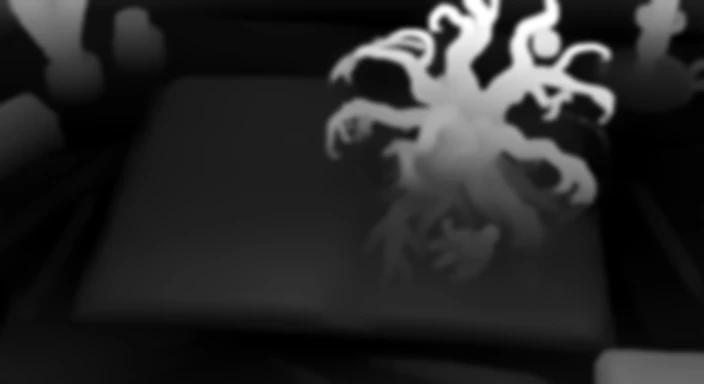
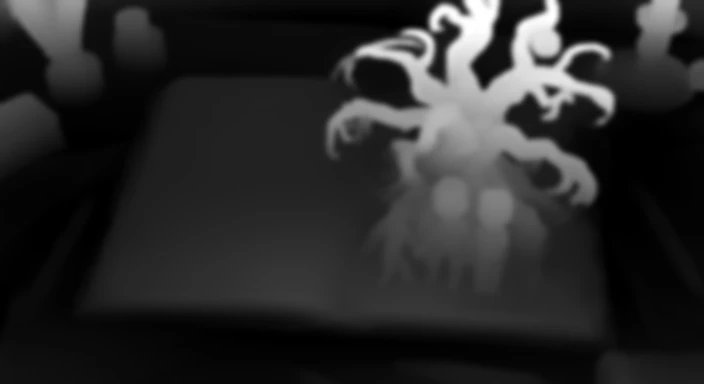
Upside-Down World p12: new back-at-the-oak picture; kids look ahead, turn to each other, high-five (shirt colour fixed), gentle branch sway, warm sun glow, dust, 2x upscale
Claude-Session: https://claude.ai/code/session_01BFtifSTdmWYaAK88ECs5PE

diff --git a/books/upside-down-world/sprite.js b/books/upside-down-world/sprite.js
@@ -1,2 +1,2 @@
 /* flying objects drawn over a still page: img = transparent sprite, rs = ball radius in the sprite, path = [x,y,radius] per frame at 24 fps in 1408x768 picture pixels */
-window.SPRITES={p01:{img:"img/p01-ball.webp",size:260,rs:104.5,path:[[951.0,390.0,18.5],[946.4,377.6,21.9],[944.8,373.2,22.6],[941.8,364.8,24.4],[938.6,356.8,26.0],[935.2,349.1,27.6],[931.6,342.1,29.2],[927.9,335.5,30.7],[923.8,329.1,32.0],[919.7,322.8,33.5],[915.7,316.9,34.9],[911.8,311.1,36.2],[907.8,305.5,37.6],[903.9,300.1,38.9],[899.8,295.1,40.2],[895.8,290.0,41.2],[891.4,285.1,42.2],[887.2,280.3,43.2],[882.9,275.7,44.3],[878.9,271.0,45.3],[874.9,266.6,46.5],[871.2,262.1,47.8],[867.5,257.7,49.1],[863.9,253.4,50.5],[860.2,249.1,51.8],[856.2,244.7,53.0],[852.4,240.6,54.2],[848.3,236.6,55.3],[843.9,232.6,56.5],[839.6,228.6,57.6],[835.4,224.8,58.6],[830.9,221.0,59.7],[826.3,217.3,60.7],[821.9,213.7,61.5],[817.4,210.1,62.4],[812.8,206.8,63.6],[808.1,203.5,64.5],[803.4,200.3,65.6],[798.8,196.9,66.6],[794.1,193.7,67.7],[789.4,190.4,68.8],[784.8,187.1,70.0],[780.1,183.8,71.3],[775.3,180.6,72.7],[770.3,177.4,74.1],[765.1,174.3,75.5],[759.8,171.1,77.0],[754.7,167.8,78.5],[749.2,164.6,80.0],[743.7,161.4,81.3],[738.1,157.9,82.7],[732.6,154.6,84.0]]},p02:{img:"img/p01-ball.webp",size:260,rs:104.5,kind:"lob",from:[1008,538,9],to:[1040,212,4.2],apex:170,rig:[{img:"img/p02-leg.webp",box:[960,515,60,60],pivot:[987,531],depth:[988,545],motion:"leg"}]},p03:{rig:[{img:"img/p03-leo.webp",box:[906,462,52,56],pivot:[932,504],depth:[932,495],motion:"headL"},{img:"img/p03-sam.webp",box:[946,475,52,56],pivot:[972,515],depth:[972,505],motion:"headS"}]},p03s:{img:"img/p01-ball.webp",size:260,rs:104.5,kind:"hops",ground:true,rest:1.6,start:[920.3,488.6,14.5],du:[1.25,.42,.3],grow:.5,bend:-62,hops:[[896,197,9.5,175],[892,187,8.5,15],[879,181,7.5,6]],to:[879,181,7.5]},p03t:{rig:[{img:"img/p03-turn.webp",box:[888,468,114,140],pivot:[945,538],depth:[945,540],motion:"turn"}]},p05p:{rig:[{img:"img/p05-point.webp",box:[884,452,118,156],pivot:[943,530],depth:[943,540],motion:"point2"}]},p06k:{rig:[{img:"img/p06-k0.webp",box:[878,423,80,114],pivot:[918.4,478.3],depth:[918.4,508.3],motion:"kf0"},{img:"img/p06-k1.webp",box:[866,417,97,111],pivot:[915.3,473.5],depth:[915.3,503.5],motion:"kf1"},{img:"img/p06-k2.webp",box:[874,472,99,116],pivot:[921.4,531.8],depth:[921.4,561.8],motion:"kf2"}]},p07k:{rig:[{img:"img/p07-kids.webp",box:[859.6,324.2,83.1,120.1],pivot:[910,404],depth:[910,395],motion:"walk7"}]},p08k:{rig:[{img:"img/p08-k1.webp",box:[750,272,339.5,323],pivot:[920,590],depth:[920,560],motion:"p8a"},{img:"img/p08-k2.webp",box:[781,272,283.5,323],pivot:[920,590],depth:[920,560],motion:"p8b"}]},p09k:{rig:[{img:"img/p09-wave.webp",box:[868,430,152,180],pivot:[944,520],depth:[944,540],motion:"p9"}]},p10k:{rig:[{img:"img/p10-kids.webp",box:[800,350,240,210],pivot:[920,455],depth:[920,470],motion:"stride"},{img:"img/p10-whale.webp",box:[640,30,550,380],pivot:[905,220],depth:[905,220],motion:"flip10"}]},p11k:{rig:[{img:"img/p10-kids.webp",box:[800,350,240,210],pivot:[920,455],depth:[920,470],motion:"stride"},{img:"img/p11-song.webp",box:[23,59,1272,491],pivot:[660,300],depth:[880,180],motion:"song11"}]}};
+window.SPRITES={p01:{img:"img/p01-ball.webp",size:260,rs:104.5,path:[[951.0,390.0,18.5],[946.4,377.6,21.9],[944.8,373.2,22.6],[941.8,364.8,24.4],[938.6,356.8,26.0],[935.2,349.1,27.6],[931.6,342.1,29.2],[927.9,335.5,30.7],[923.8,329.1,32.0],[919.7,322.8,33.5],[915.7,316.9,34.9],[911.8,311.1,36.2],[907.8,305.5,37.6],[903.9,300.1,38.9],[899.8,295.1,40.2],[895.8,290.0,41.2],[891.4,285.1,42.2],[887.2,280.3,43.2],[882.9,275.7,44.3],[878.9,271.0,45.3],[874.9,266.6,46.5],[871.2,262.1,47.8],[867.5,257.7,49.1],[863.9,253.4,50.5],[860.2,249.1,51.8],[856.2,244.7,53.0],[852.4,240.6,54.2],[848.3,236.6,55.3],[843.9,232.6,56.5],[839.6,228.6,57.6],[835.4,224.8,58.6],[830.9,221.0,59.7],[826.3,217.3,60.7],[821.9,213.7,61.5],[817.4,210.1,62.4],[812.8,206.8,63.6],[808.1,203.5,64.5],[803.4,200.3,65.6],[798.8,196.9,66.6],[794.1,193.7,67.7],[789.4,190.4,68.8],[784.8,187.1,70.0],[780.1,183.8,71.3],[775.3,180.6,72.7],[770.3,177.4,74.1],[765.1,174.3,75.5],[759.8,171.1,77.0],[754.7,167.8,78.5],[749.2,164.6,80.0],[743.7,161.4,81.3],[738.1,157.9,82.7],[732.6,154.6,84.0]]},p02:{img:"img/p01-ball.webp",size:260,rs:104.5,kind:"lob",from:[1008,538,9],to:[1040,212,4.2],apex:170,rig:[{img:"img/p02-leg.webp",box:[960,515,60,60],pivot:[987,531],depth:[988,545],motion:"leg"}]},p03:{rig:[{img:"img/p03-leo.webp",box:[906,462,52,56],pivot:[932,504],depth:[932,495],motion:"headL"},{img:"img/p03-sam.webp",box:[946,475,52,56],pivot:[972,515],depth:[972,505],motion:"headS"}]},p03s:{img:"img/p01-ball.webp",size:260,rs:104.5,kind:"hops",ground:true,rest:1.6,start:[920.3,488.6,14.5],du:[1.25,.42,.3],grow:.5,bend:-62,hops:[[896,197,9.5,175],[892,187,8.5,15],[879,181,7.5,6]],to:[879,181,7.5]},p03t:{rig:[{img:"img/p03-turn.webp",box:[888,468,114,140],pivot:[945,538],depth:[945,540],motion:"turn"}]},p05p:{rig:[{img:"img/p05-point.webp",box:[884,452,118,156],pivot:[943,530],depth:[943,540],motion:"point2"}]},p06k:{rig:[{img:"img/p06-k0.webp",box:[878,423,80,114],pivot:[918.4,478.3],depth:[918.4,508.3],motion:"kf0"},{img:"img/p06-k1.webp",box:[866,417,97,111],pivot:[915.3,473.5],depth:[915.3,503.5],motion:"kf1"},{img:"img/p06-k2.webp",box:[874,472,99,116],pivot:[921.4,531.8],depth:[921.4,561.8],motion:"kf2"}]},p07k:{rig:[{img:"img/p07-kids.webp",box:[859.6,324.2,83.1,120.1],pivot:[910,404],depth:[910,395],motion:"walk7"}]},p08k:{rig:[{img:"img/p08-k1.webp",box:[750,272,339.5,323],pivot:[920,590],depth:[920,560],motion:"p8a"},{img:"img/p08-k2.webp",box:[781,272,283.5,323],pivot:[920,590],depth:[920,560],motion:"p8b"}]},p09k:{rig:[{img:"img/p09-wave.webp",box:[868,430,152,180],pivot:[944,520],depth:[944,540],motion:"p9"}]},p10k:{rig:[{img:"img/p10-kids.webp",box:[800,350,240,210],pivot:[920,455],depth:[920,470],motion:"stride"},{img:"img/p10-whale.webp",box:[640,30,550,380],pivot:[905,220],depth:[905,220],motion:"flip10"}]},p11k:{rig:[{img:"img/p10-kids.webp",box:[800,350,240,210],pivot:[920,455],depth:[920,470],motion:"stride"},{img:"img/p11-song.webp",box:[23,59,1272,491],pivot:[660,300],depth:[880,180],motion:"song11"}]},p12k:{rig:[{img:"img/p12-k1.webp",box:[810,340,250,260],pivot:[935,470],depth:[935,480],motion:"p12a"},{img:"img/p12-k2.webp",box:[810,340,250,260],pivot:[935,470],depth:[935,480],motion:"p12b"}]}};

diff --git a/books/upside-down-world/index.html b/books/upside-down-world/index.html
@@ -398,6 +398,9 @@ const MOT={
   song11(tt){const T=12;tt=((tt%T)+T)%T;let a=0;
     if(tt>=1&&tt<2.4)a=ease((tt-1)/1.4);else if(tt>=2.4&&tt<8.5)a=1;else if(tt>=8.5&&tt<10)a=1-ease((tt-8.5)/1.5);
     return {dx:Math.sin(tt*.7)*2.5*a,dy:Math.sin(tt*1.1)*2*a,rot:0,sx:1,sy:1,a};},
+  /* page 12: the kids look ahead, turn to each other, high-five, then settle back (16 s) */
+  p12(tt,j){const T=16;tt=((tt%T)+T)%T;const on=(s,e,f)=>tt<s||tt>e+f?0:tt<s+f?ease((tt-s)/f):tt<e?1:1-ease((tt-e)/f);
+    return {dx:0,dy:0,rot:0,sx:1,sy:1,a:j===1?on(3,12.5,.55):on(6.6,10,.45)};},
   hide(tt){const T=16;tt=((tt%T)+T)%T;const S=7.0,E=11.6+.85;return {dx:0,dy:0,rot:0,sx:1,sy:1,a:Math.max(0,Math.min(1,(tt-S)/.12,(E-tt)/.12))};},
   head(tt,dir,lag){const T=16;tt=((tt-lag)%T+T)%T;let k=0;
     if(tt>=.8&&tt<1.9)k=ease((tt-.8)/1.1);else if(tt>=1.9&&tt<4.8)k=1;else if(tt>=4.8&&tt<5.9)k=1-ease((tt-4.8)/1.1);
@@ -408,7 +411,7 @@ function drawRig(c,d,L,now,dt,w,h,t,ps,o){
   const p=L._p,dim=p.fx==='shade'?dimS:0;
   (d.rig||[]).forEach(r=>{if(!r.im||!r.im.complete||!r.im.naturalWidth)return;
     const tt=reduce?0:(now-pageT0)/1000;
-    const M=r.motion==='flip10'?MOT.flip10(tt):r.motion==='stride'?MOT.stride(tt):r.motion==='song11'?MOT.song11(tt):r.motion==='p9'?MOT.p9(tt):r.motion==='p8a'?MOT.p8(tt,1):r.motion==='p8b'?MOT.p8(tt,2):r.motion==='walk7'?MOT.walk7(tt):r.motion&&r.motion.startsWith('kf')?MOT.kf(tt,+r.motion[2]):r.motion==='point2'?MOT.point2(tt):r.motion==='point'?MOT.point(tt):r.motion==='hide'?MOT.hide(tt):r.motion==='turn'?MOT.turn(tt):r.motion==='leg'?MOT.leg(tt):r.motion==='headL'?MOT.head(tt,1,0):MOT.head(tt,-1,.18);
+    const M=r.motion==='p12a'?MOT.p12(tt,1):r.motion==='p12b'?MOT.p12(tt,2):r.motion==='flip10'?MOT.flip10(tt):r.motion==='stride'?MOT.stride(tt):r.motion==='song11'?MOT.song11(tt):r.motion==='p9'?MOT.p9(tt):r.motion==='p8a'?MOT.p8(tt,1):r.motion==='p8b'?MOT.p8(tt,2):r.motion==='walk7'?MOT.walk7(tt):r.motion&&r.motion.startsWith('kf')?MOT.kf(tt,+r.motion[2]):r.motion==='point2'?MOT.point2(tt):r.motion==='point'?MOT.point(tt):r.motion==='hide'?MOT.hide(tt):r.motion==='turn'?MOT.turn(tt):r.motion==='leg'?MOT.leg(tt):r.motion==='headL'?MOT.head(tt,1,0):MOT.head(tt,-1,.18);
     const rl=depthAt(p.img,r.depth[0],r.depth[1]),qx=r.pivot[0]/W,qy=r.pivot[1]/H,s2=shiftAt(qx,qy,rl,t),
       px=(o[0]+(qx-o[0])*curS+s2[0])*w,py=(o[1]+(qy-o[1])*curS+s2[1])*h;
     const sh=sm3(.30,.40,qx)*sm3(.97,.90,qx)*sm3(.95,.85,qy)*rl*(.055*Math.sin(t*1.6+qx*13+qy*6)+.035*Math.sin(t*2.7-qy*17)),f=(1+sh)*(1-dim*.25);

diff --git a/books/upside-down-world/story.js b/books/upside-down-world/story.js
@@ -34,7 +34,7 @@ window.STORY={title:"The Upside-Down World",author:"M. A. Mafodh",pages:[
  "That was it. That was too much. Leo grabbed Sam's hand. \"We have to go. Now!\"",
  "\"But the whale!\" Sam cried, trying to pull back. \"NOW, Sam!\" Leo yanked him toward the glowing tunnel they had come from.",
  "The magic of the place was suddenly scary, too big and too strange."]},
-{img:"p10",box:[362,190,628,405],parts:[
+{img:"p10",sprite:"p12k",wind:-1.3,swirl:[1090,85,.004],dust:true,box:[362,190,628,405],parts:[
  "They scrambled back through the tunnel, stumbling over each other, and burst out from under the oak tree, landing in a heap on the familiar grass of the park.",
  "The sun was normal yellow again. The air was warm and smelled like cut grass. They were back. Leo panted, his heart thumping like a drum. Sam sat up, blinking in the bright light."]},
 {img:"p11",box:[305,425,700,600],parts:[
